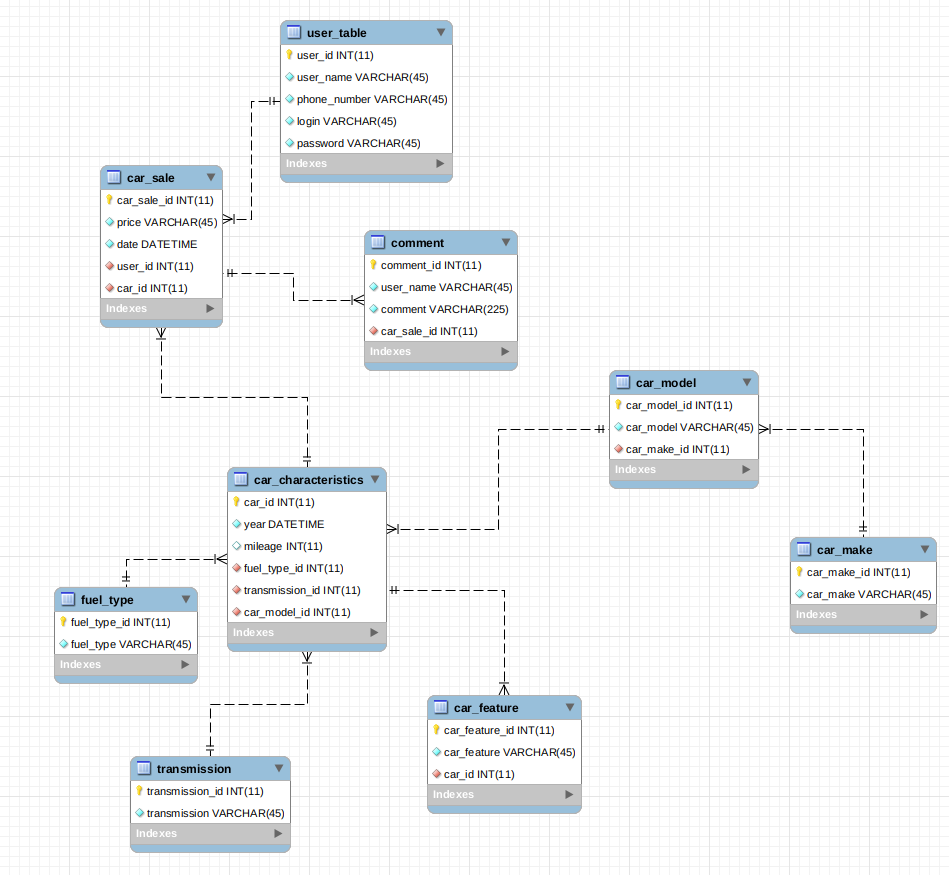
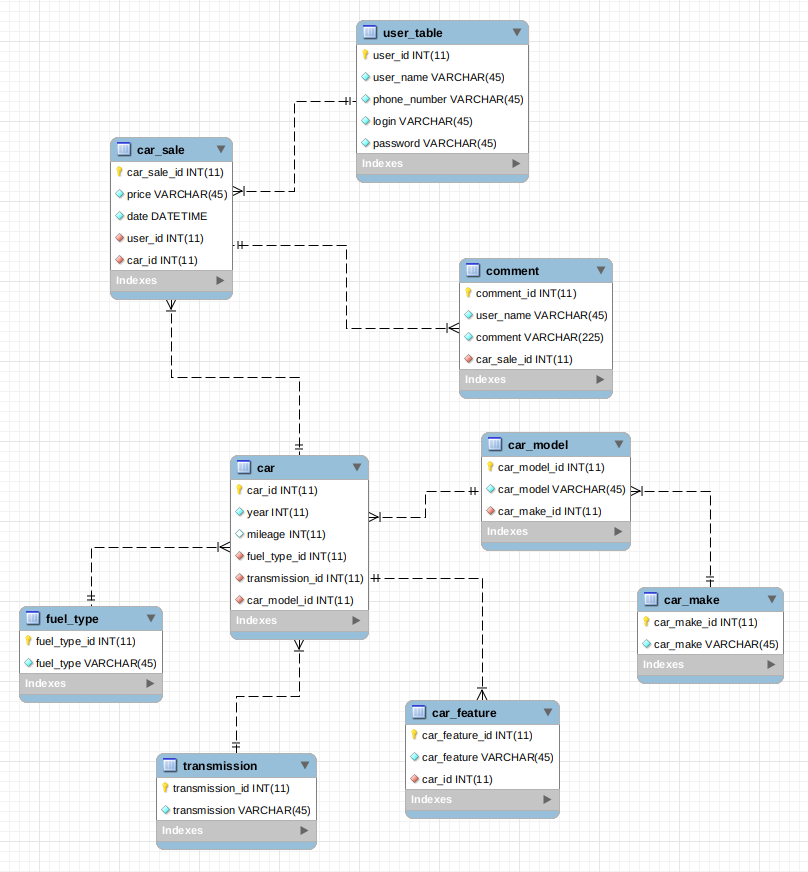
make some changes with DB

diff --git a/src/test/java/com/spring/rest/dao/impl/CarCharacteristicsDaoImplTest.java b/src/test/java/com/spring/rest/dao/impl/CarCharacteristicsDaoImplTest.java
@@ -10,7 +10,6 @@ import org.junit.jupiter.api.Test;
 import org.springframework.beans.factory.annotation.Autowired;
 import org.springframework.dao.DataIntegrityViolationException;
 import org.springframework.dao.EmptyResultDataAccessException;
-import java.util.Date;
 
 import static org.junit.jupiter.api.Assertions.assertEquals;
 import static org.junit.jupiter.api.Assertions.assertThrows;
@@ -45,7 +44,7 @@ class CarCharacteristicsDaoImplTest {
     @Test
     void addCarCharacteristics() {
         int size = carCharacteristicsDao.getCarsCharacteristics().size();
-        CarCharacteristics newCarCharacteristics = new CarCharacteristics(2, new Date(32000), 133455,
+        CarCharacteristics newCarCharacteristics = new CarCharacteristics(2, 2016, 133455,
                 new FuelType(2), new Transmission(1), new CarModel(3,
                 new CarMake(2)));
         int index = carCharacteristicsDao.addCarCharacteristics(newCarCharacteristics);
@@ -62,13 +61,13 @@ class CarCharacteristicsDaoImplTest {
     @Test
     void addCarCharacteristicsWithWrongReferences() {
         assertThrows(DataIntegrityViolationException.class,() -> carCharacteristicsDao.addCarCharacteristics(
-                new CarCharacteristics(2, new Date(432000), 33455, new FuelType(10),
+                new CarCharacteristics(2, 2018, 33455, new FuelType(10),
                         new Transmission(20), new CarModel(15, new CarMake(21)))));
     }
 
     @Test
     void updateCarCharacteristics() {
-        CarCharacteristics newCarCharacteristics = new CarCharacteristics(2, new Date(32000), 233455,
+        CarCharacteristics newCarCharacteristics = new CarCharacteristics(2, 2017, 233455,
                 new FuelType(2), new Transmission(2), new CarModel(1,
                 new CarMake(2)));
         carCharacteristicsDao.updateCarCharacteristics(newCarCharacteristics);
@@ -83,7 +82,7 @@ class CarCharacteristicsDaoImplTest {
     @Test
     void updateCarCharacteristicsWithWrongReferences() {
         assertThrows(DataIntegrityViolationException.class,() -> carCharacteristicsDao.updateCarCharacteristics(
-                new CarCharacteristics(2, new Date(32000), 233455, new FuelType(10),
+                new CarCharacteristics(2, 2016, 233455, new FuelType(10),
                         new Transmission(20), new CarModel(15, new CarMake(21)))));
     }
 

diff --git a/src/main/java/com/spring/rest/model/CarCharacteristics.java b/src/main/java/com/spring/rest/model/CarCharacteristics.java
@@ -1,17 +1,15 @@
 package com.spring.rest.model;
 
-import java.util.Calendar;
-import java.util.Date;
-
 /**
  * The car characteristics model.
  * This model includes year of car manufacture, car mileage, fuel type of car, transmission type and car model.
  * Each car includes this model.
+ *
  * @author Katuranau Maksimilyan
  */
 public class CarCharacteristics {
     private int carId;
-    private Date year;
+    private int year;
     private int mileage;
     private FuelType fuelType;
     private Transmission transmission;
@@ -36,7 +34,7 @@ public class CarCharacteristics {
      * @param transmission the transmission
      * @param carModel     the car model
      */
-    public CarCharacteristics(final int carId, final Date year, final int mileage, final FuelType fuelType,
+    public CarCharacteristics(final int carId, final int year, final int mileage, final FuelType fuelType,
                               final Transmission transmission, final CarModel carModel) {
         this.carId = carId;
         this.year = year;
@@ -69,7 +67,7 @@ public class CarCharacteristics {
      *
      * @return the year
      */
-    public Date getYear() {
+    public int getYear() {
         return year;
     }
 
@@ -78,7 +76,7 @@ public class CarCharacteristics {
      *
      * @param year the year
      */
-    public void setYear(final Date year) {
+    public void setYear(final int year) {
         this.year = year;
     }
 
@@ -156,10 +154,8 @@ public class CarCharacteristics {
 
     @Override
     public final String toString() {
-        Calendar cal = Calendar.getInstance();
-        cal.setTime(year);
         return "carId=" + carId
-                + ", year=" + cal.get(Calendar.YEAR)
+                + ", year=" + year
                 + ", mileage=" + mileage
                 + ", " + fuelType
                 + ", " + transmission

diff --git a/src/main/java/com/spring/rest/model/mappers/CarCharacteristicsMapper.java b/src/main/java/com/spring/rest/model/mappers/CarCharacteristicsMapper.java
@@ -64,9 +64,9 @@ public class CarCharacteristicsMapper implements RowMapper<CarCharacteristics> {
     @Override
     public CarCharacteristics mapRow(final ResultSet resultSet, final int i) throws SQLException {
         CarCharacteristics carCharacteristics = new CarCharacteristics(resultSet.getInt(CAR_ID),
-                resultSet.getDate(YEAR), resultSet.getInt(MILEAGE), fuelTypeMapper.mapRow(resultSet, i),
+                resultSet.getInt(YEAR), resultSet.getInt(MILEAGE), fuelTypeMapper.mapRow(resultSet, i),
                 transmissionMapper.mapRow(resultSet, i), carModelMapper.mapRow(resultSet, i));
-        LOGGER.debug("row ({}, {}, {}) has been mapped", resultSet.getInt(CAR_ID), resultSet.getDate(YEAR),
+        LOGGER.debug("row ({}, {}, {}) has been mapped", resultSet.getInt(CAR_ID), resultSet.getInt(YEAR),
                 resultSet.getInt(MILEAGE));
         return carCharacteristics;
     }

diff --git a/src/main/java/com/spring/rest/config/SpringJDBCConfig.java b/src/main/java/com/spring/rest/config/SpringJDBCConfig.java
@@ -34,8 +34,7 @@ public class SpringJDBCConfig {
     @Value("${db.user.name.p}")
     private String DB_USER_NAME;
     /**
-     * The database's p
-     * assword.
+     * The database's password.
      */
     @Value("${db.password}")
     private String DB_PASSWORD;

diff --git a/README.md b/README.md
@@ -1,9 +1,8 @@
 # CarSale
 [![Build Status](https://travis-ci.com/java-fat-unicorn-team/CarSale.svg?branch=dev)](https://travis-ci.com/java-fat-unicorn-team/CarSale)
 ## Main topic of project
-It will be a web application where you can place an advertisement for the sale of a carCharacteristics
-or find a carCharacteristics for yourself.
-You can see DB model hierarchy [here](https://github.com/java-fat-unicorn-team/CarSale/blob/dev/docs/diagram.png).
+It will be a web application where you can place an advertisement for the sale of a car or find a car for yourself.\
+There is DB model hierarchy [here](https://github.com/java-fat-unicorn-team/CarSale/blob/dev/docs/diagram.png).
 
 ## Technologies
 Project is created with:
